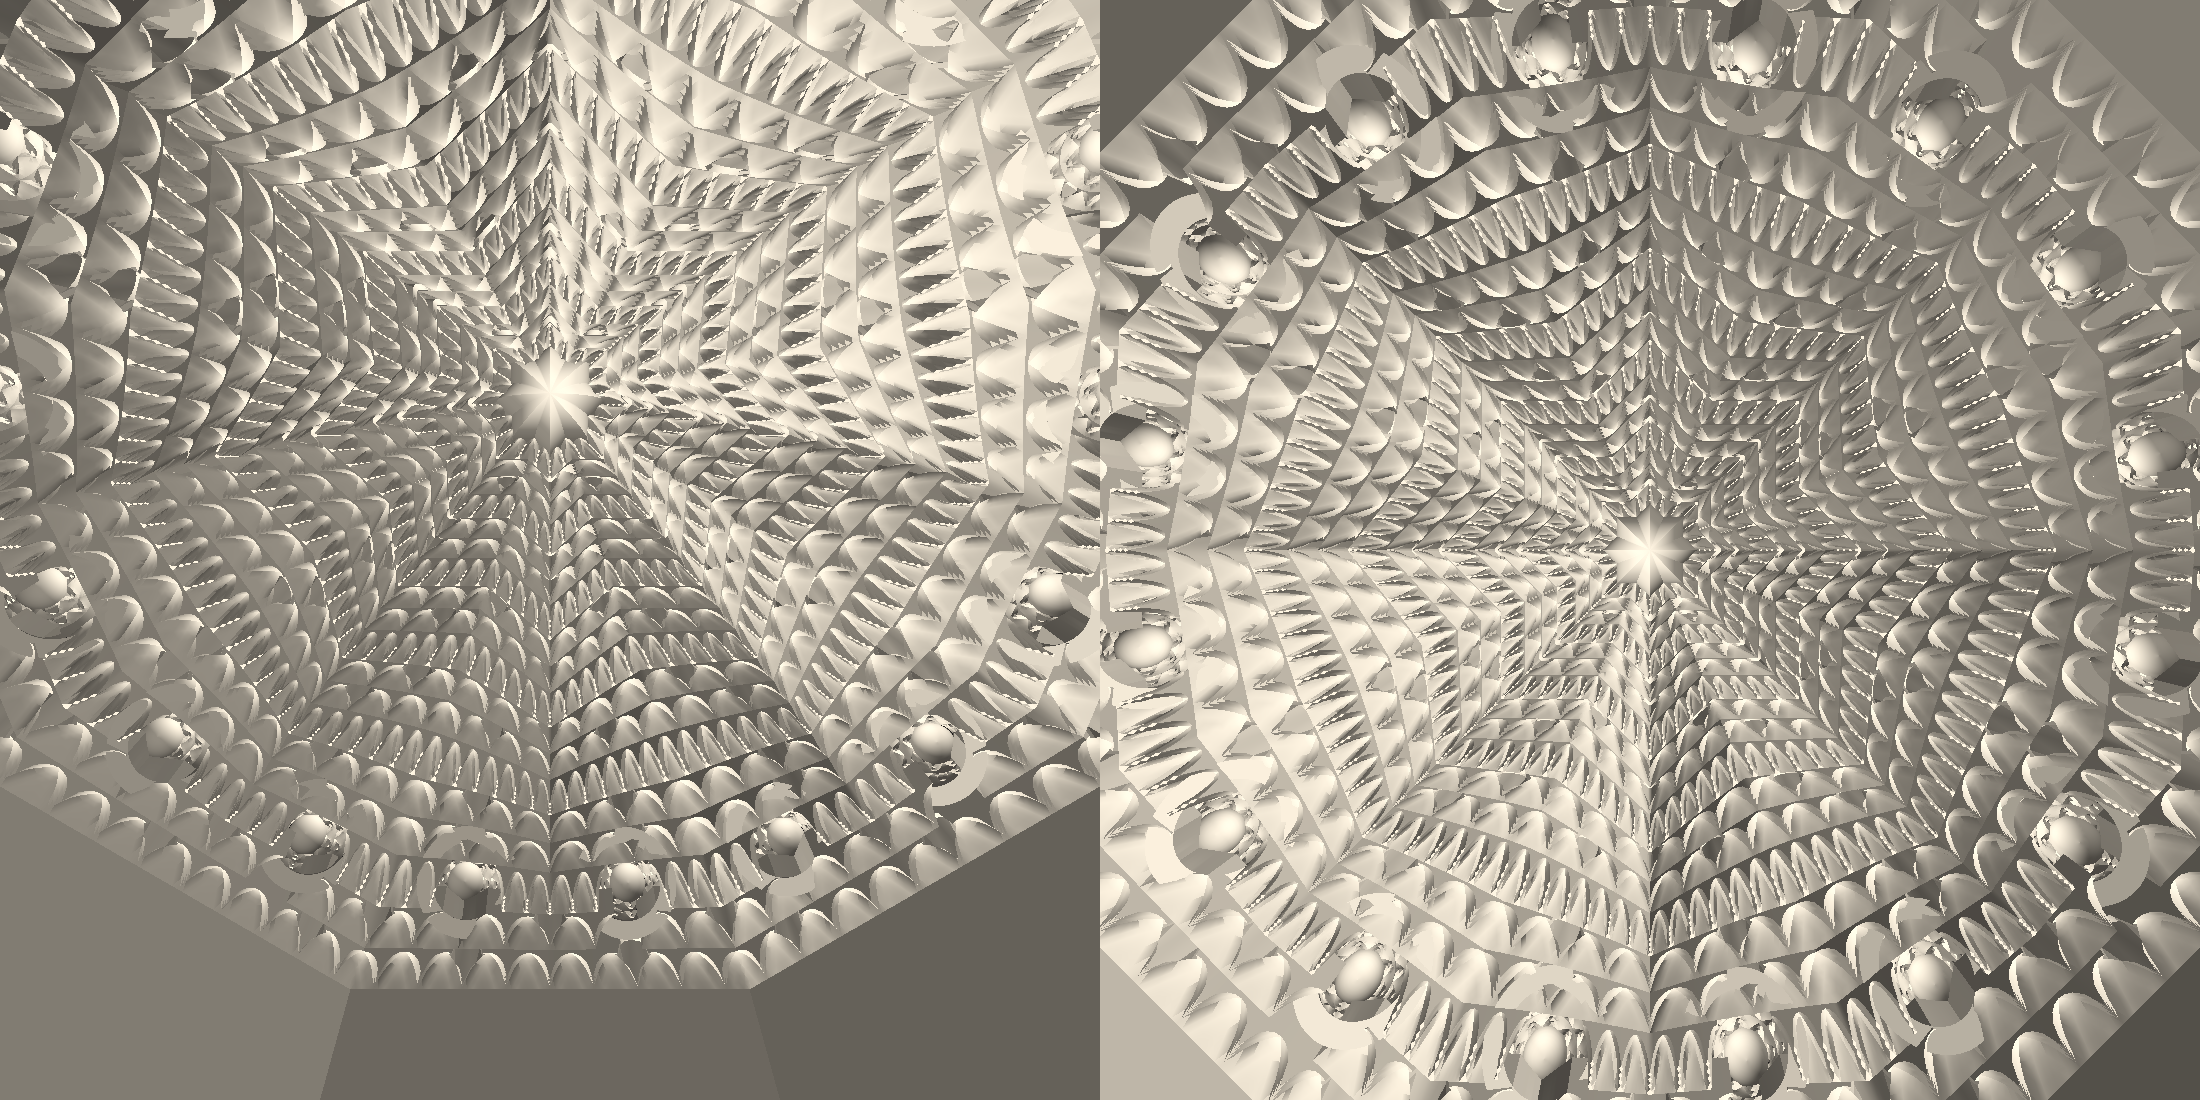
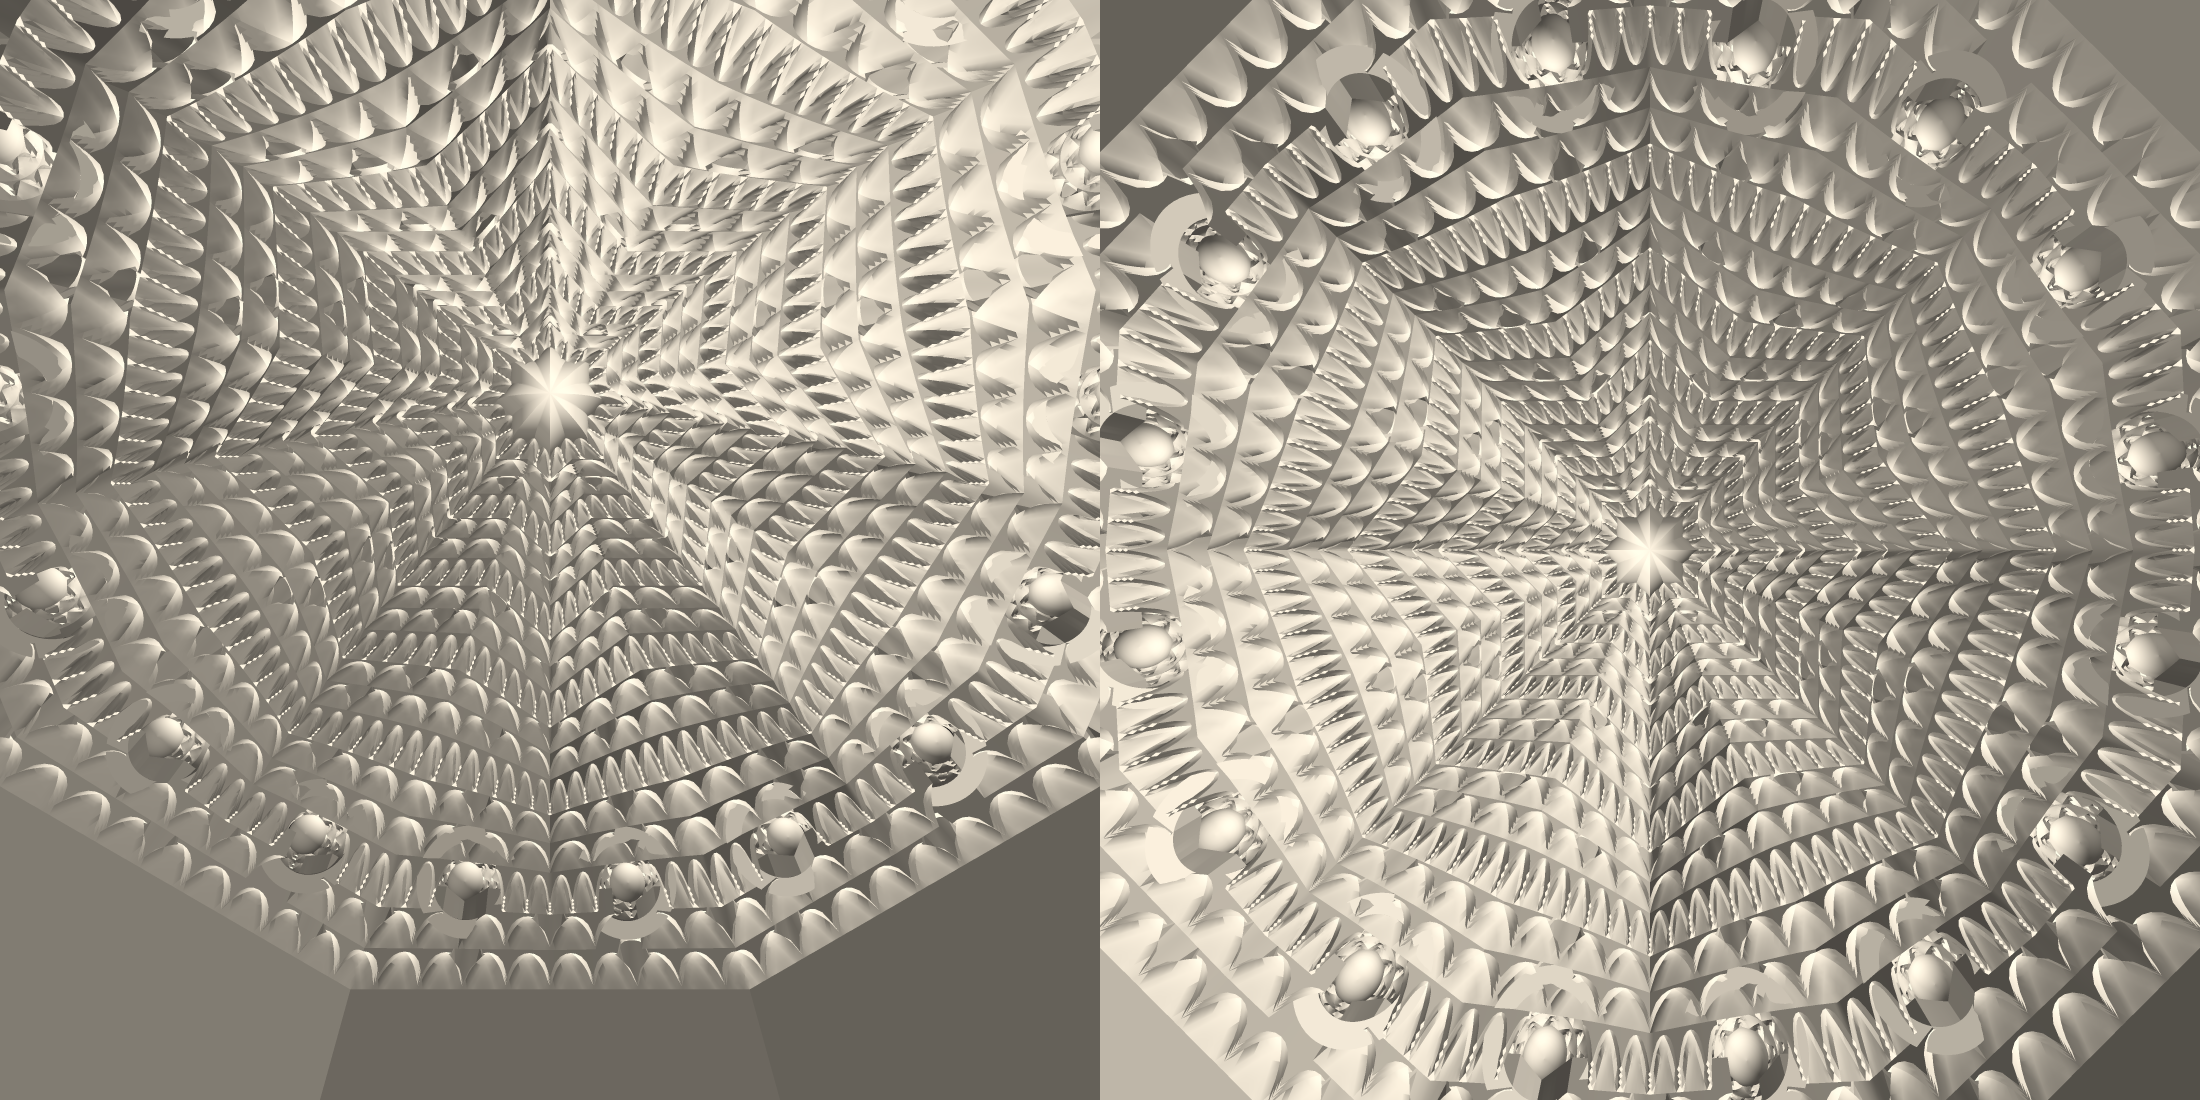
feat(render): antialiasing por supermuestreo en el render de la cupula
El rasterizador tomaba una muestra por pixel: bordes en escalera y filetes
de uno o dos pixeles rotos en rayas. `rasterizar(..., supermuestreo=k)`
dibuja a k*W x k*H y reduce promediando bloques k x k. Por defecto 1, asi
que los demas renders no cambian; render_cupula_piezas.py usa 3
(--supermuestreo). Renders de la cupula regenerados (87 s).

Queda una sierra en los cruces entre piezas que viene de la malla
(subdivision 8), no del rasterizado: a 16 los dientes salen a la mitad.

Changed region(s): [[0.7418, 0.6491, 0.7727, 0.68], [0.2473, 0.2782, 0.2782, 0.3091]]

diff --git a/scripts/render_cupula_piezas.py b/scripts/render_cupula_piezas.py
@@ -38,6 +38,7 @@ def main() -> int:
     ap = argparse.ArgumentParser(description=__doc__.splitlines()[0])
     ap.add_argument("--subdivision", type=int, default=8)
     ap.add_argument("--lado", type=int, default=1100)
+    ap.add_argument("--supermuestreo", type=int, default=3, help="muestras por lado de pixel (antialiasing)")
     ap.add_argument("--obj", type=Path, default=RAIZ / "renders" / "cupula_piezas.obj")
     ap.add_argument("--png", type=Path, default=RAIZ / "renders" / "cupula_piezas.png")
     ap.add_argument("--png-color", type=Path, default=RAIZ / "renders" / "cupula_color.png")
@@ -64,16 +65,16 @@ def main() -> int:
     luces = [((0.55, 0.35, -0.75), 0.75), ((-0.6, -0.45, -0.65), 0.3)]
     visitante = ((0.0, -6.0, -14.0), (0.0, 4.0, 9.0), 80.0)
     cenital = ((0.0, 0.0, -13.0), (0.0, 0.001, 10.0), 90.0)
-    a, _ = rasterizar(V, F, L, L, luces=luces, perspectiva=visitante)
-    b, _ = rasterizar(V, F, L, L, luces=luces, perspectiva=cenital)
+    a, _ = rasterizar(V, F, L, L, supermuestreo=args.supermuestreo, luces=luces, perspectiva=visitante)
+    b, _ = rasterizar(V, F, L, L, supermuestreo=args.supermuestreo, luces=luces, perspectiva=cenital)
     lienzo = Image.new("RGB", (2 * L, L))
     lienzo.paste(a, (0, 0))
     lienzo.paste(b, (L, 0))
     lienzo.save(args.png)
     # Obra recien acabada: mas luz ambiente para que el yeso llegue a blanco.
     claro = dict(luces=luces, colores=colores, tono=sombras, ambiente=0.6)
-    a, _ = rasterizar(V, F, L, L, perspectiva=visitante, **claro)
-    b, _ = rasterizar(V, F, L, L, perspectiva=cenital, **claro)
+    a, _ = rasterizar(V, F, L, L, supermuestreo=args.supermuestreo, perspectiva=visitante, **claro)
+    b, _ = rasterizar(V, F, L, L, supermuestreo=args.supermuestreo, perspectiva=cenital, **claro)
     lienzo = Image.new("RGB", (2 * L, L))
     lienzo.paste(a, (0, 0))
     lienzo.paste(b, (L, 0))

diff --git a/granada/render3d.py b/granada/render3d.py
@@ -67,8 +67,28 @@ def normales_suaves(V, F, angulo=ANGULO_ARISTA):
     return unidad, esquinas
 
 
-def rasterizar(V, F, W, H, azim=0.0, elev=0.0, luces=(), perspectiva=None, suave=True, tono=None, encuadre=None, colores=None, ambiente=AMBIENTE):
+def rasterizar(V, F, W, H, *args, supermuestreo: int = 1, encuadre=None, **kw):
     """Dibuja la malla y devuelve (imagen, (px, py)).
+
+    `supermuestreo=k`: dibuja a k*W x k*H y reduce promediando bloques de k x k
+    (antialiasing). Sin el, cada pixel es una sola muestra y los bordes y los
+    filetes de uno o dos pixeles salen en escalera o rotos. `px, py` se
+    devuelven en pixeles de la imagen final. Resto de argumentos: `_rasterizar`.
+    """
+    k = int(supermuestreo)
+    if k < 1:
+        raise ValueError(f"supermuestreo debe ser >= 1, se recibio {supermuestreo}")
+    if k == 1:
+        return _rasterizar(V, F, W, H, *args, encuadre=encuadre, **kw)
+    if encuadre is not None:
+        u0, v0, escala = encuadre
+        encuadre = (u0 * k, v0 * k, escala * k)
+    img, (px, py) = _rasterizar(V, F, W * k, H * k, *args, encuadre=encuadre, **kw)
+    return img.reduce(k), (px / k, py / k)
+
+
+def _rasterizar(V, F, W, H, azim=0.0, elev=0.0, luces=(), perspectiva=None, suave=True, tono=None, encuadre=None, colores=None, ambiente=AMBIENTE):
+    """Dibuja la malla con una muestra por pixel y devuelve (imagen, (px, py)).
 
     Sin `perspectiva`: ortografica, encuadrando todo, vista desde (azim, elev).
     Con `perspectiva=(posicion, objetivo, fov_horizontal_grados)`: camara en
